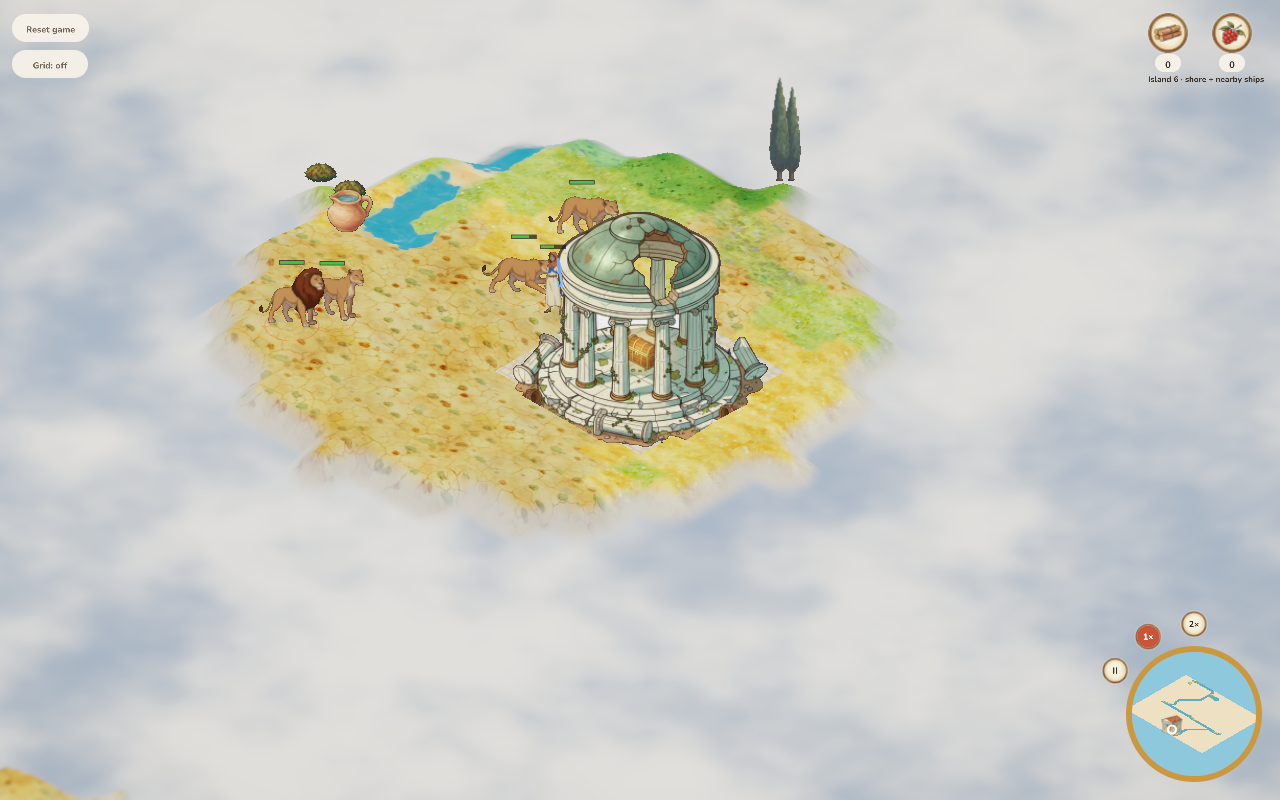
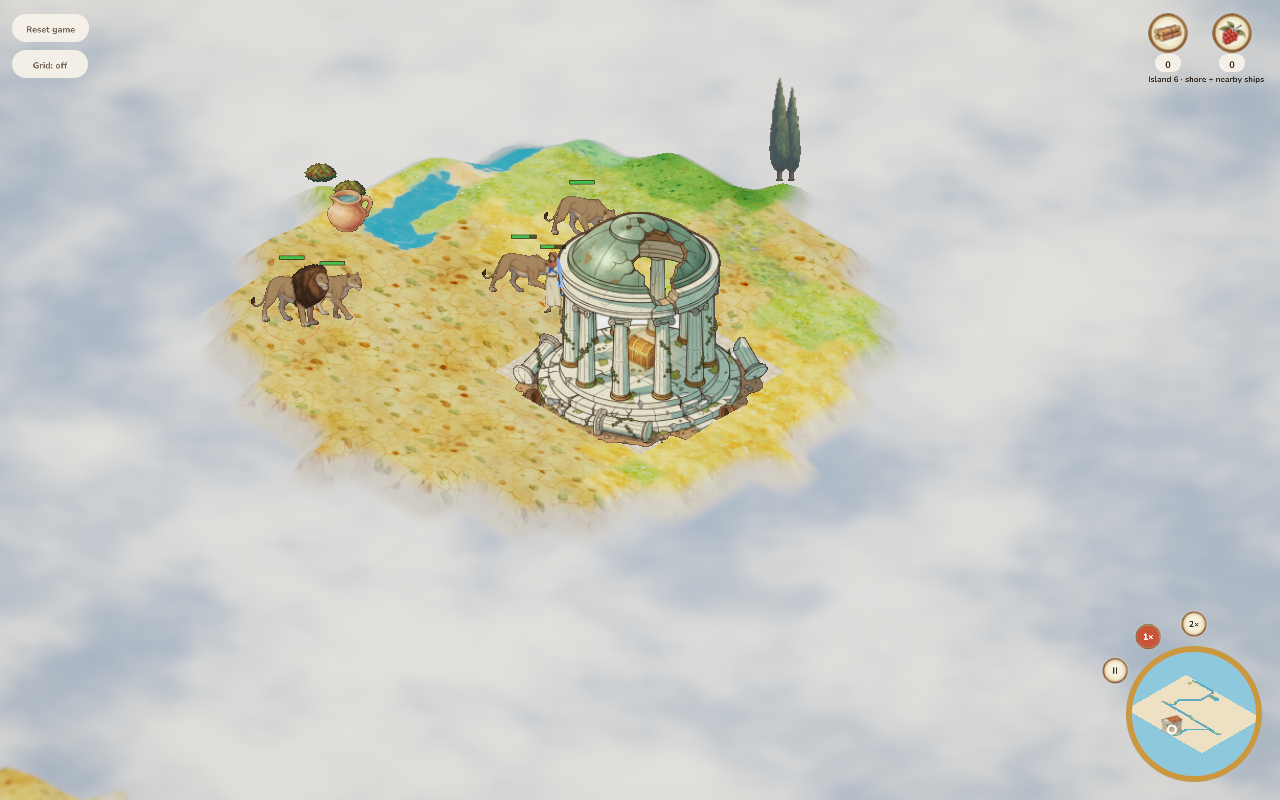
Regenerate lions to match the wildlife colour and shading
Jakob found the first lion drafts' colour and shading inconsistent with the
game. Measured, the lioness was flat and airbrushed (value 0.54-0.77) beside
the wolf's and bear's painted light and shadow sides. Both forms are now
generated fresh from the shipped wolf/bear sheet, with the lioness as the
lion's pride reference: muted coats, the wolf's two-tone cream underside,
one colour across every frame, and a crouched windup.

The packer splits poses by shape so a tail crossing a cell edge stays with
its body. The lion is drawn about a fifth taller than the lioness. The
rejected passes and the lesson are recorded in the asset guide and provenance.

Claude-Session: https://claude.ai/code/session_01Tn1BkVmeuuLTe7qVsn2x5n

Changed region(s): [[0.1875, 0.3125, 0.2812, 0.4062], [0.4062, 0.25, 0.5, 0.3125], [0.375, 0.3125, 0.4375, 0.375]]

diff --git a/scripts/pack_wildlife.py b/scripts/pack_wildlife.py
@@ -3,13 +3,16 @@
 from pathlib import Path
 import json
 
+import numpy as np
 from PIL import Image
+from scipy import ndimage
 
 ROOT = Path(__file__).resolve().parents[1]
 SOURCE = ROOT / "assets/sprites/wildlife_sources/npc-style-refined.png"
 ATTACK_SOURCE = SOURCE.with_name("npc-attack-refined.png")
 CELL = 627
 BASELINE = 590
+
 
 
 def main():
@@ -61,19 +64,31 @@ def main():
         assert bounds[3] + offset[1] < CELL
         atlas.alpha_composite(frame, (col * CELL + offset[0], 2 * CELL + offset[1]))
         frames[f"boar_{pose}"] = [col * CELL, 2 * CELL, CELL, CELL]
-    # Lions: 512px source cells placed unenlarged; the lowest (planted) paws of
-    # every pose sit on the shared baseline so attacks stay grounded.
+    # Lions: 512px source quadrants placed unenlarged. A pose is every opaque shape
+    # whose center lies in its quadrant, so a tail crossing the quadrant edge
+    # stays with its body. The lowest (planted) paws sit on the shared baseline.
     for row, name in [(3, "lioness"), (4, "lion")]:
-        sheet = Image.open(ROOT / f"assets/sprites/lion_sources/{name}_cutout_0.png").convert("RGBA")
+        sheet = Image.open(ROOT / f"assets/sprites/lion_sources/{name}_family_cutout.png").convert("RGBA")
         assert sheet.size == (1024, 1024)
+        alpha = np.asarray(sheet.getchannel("A")) > 128
+        labels, count = ndimage.label(alpha)
+        centers = ndimage.center_of_mass(alpha, labels, range(1, count + 1))
+        pixels = np.asarray(sheet)
         for col, pose in enumerate(["idle", "walk", "attack_windup", "attack_strike"]):
             x, y = col % 2 * 512, col // 2 * 512
-            frame = sheet.crop((x, y, x + 512, y + 512))
+            shapes = [i + 1 for i, (cy, cx) in enumerate(centers)
+                      if x <= cx < x + 512 and y <= cy < y + 512]
+            # Keep soft edge pixels of the pose's own shapes only.
+            mask = ndimage.binary_dilation(np.isin(labels, shapes), iterations=3)
+            frame = Image.fromarray(np.where(mask[..., None], pixels, 0).astype(np.uint8), "RGBA")
             bounds = frame.getchannel("A").point(lambda a: 255 if a > 128 else 0).getbbox()
             assert bounds is not None
-            offset = ((CELL - 512) // 2, BASELINE - bounds[3])
-            assert 0 <= bounds[1] + offset[1] and bounds[2] + offset[0] < CELL
-            atlas.alpha_composite(frame, (col * CELL + offset[0], row * CELL + offset[1]))
+            offset = ((CELL - 512) // 2 - x, BASELINE - bounds[3])
+            assert 0 <= bounds[0] + offset[0] and bounds[2] + offset[0] < CELL
+            assert 0 <= bounds[1] + offset[1]
+            cell = Image.new("RGBA", (CELL, CELL))
+            cell.alpha_composite(frame.crop(bounds), (bounds[0] + offset[0], bounds[1] + offset[1]))
+            atlas.alpha_composite(cell, (col * CELL, row * CELL))
             frames[f"{name}_{pose}"] = [col * CELL, row * CELL, CELL, CELL]
     atlas.save(ROOT / "assets/sprites/wildlife.png")
     (ROOT / "assets/sprites/wildlife.json").write_text(

diff --git a/crates/client/src/view/wildlife.rs b/crates/client/src/view/wildlife.rs
@@ -21,8 +21,8 @@ pub(super) fn draw(
             aoa_game::AnimalKind::Bear => (1, 1.3, 0.35),
             aoa_game::AnimalKind::Boar => (2, 0.95, 0.25),
             // Lion cells come from smaller 512px sources, hence the larger quad.
-            aoa_game::AnimalKind::Lioness => (3, 1.3, 0.3),
-            aoa_game::AnimalKind::Lion => (4, 1.3, 0.35),
+            aoa_game::AnimalKind::Lioness => (3, 1.25, 0.3),
+            aoa_game::AnimalKind::Lion => (4, 1.45, 0.35),
         };
         let moving = animal.step.is_some();
         let stride = moving && (time * 5.0) as u32 % 2 == 1;

diff --git a/crates/client/src/view/health.rs b/crates/client/src/view/health.rs
@@ -37,8 +37,8 @@ impl WorldView {
                 aoa_game::AnimalKind::Wolf => 0.75,
                 aoa_game::AnimalKind::Bear => 0.8,
                 aoa_game::AnimalKind::Boar => 0.55,
-                aoa_game::AnimalKind::Lioness => 0.55,
-                aoa_game::AnimalKind::Lion => 0.62,
+                aoa_game::AnimalKind::Lioness => 0.57,
+                aoa_game::AnimalKind::Lion => 0.6,
             };
             let height = sprite.size[1] * (top - sprite.pivot[1]);
             if let Some(top) = rig.screen_offset(Vec3::from(sprite.anchor), up * height) {

diff --git a/docs/verification/lions/README.md b/docs/verification/lions/README.md
@@ -1,28 +1,32 @@
-# Lion prides — review evidence (2026-10-09)
+# Lion prides — review evidence (2026-10-09, art updated 2026-10-10)
 
-Draft-1 art and behavior for the first monster class. Captures come from the
+Art and behavior for the first monster class. Captures come from the
 current web build rendering a temple-island snapshot from `tests/full_run.rs`
 (seed 7) with a pride injected beside the landed villager: the leader idle,
 one lioness striking (the villager's bar is at 55%), one winding up, one walking.
 The injected scene is for rendering only and was not validated by the simulation.
 
 - `style-compare.png`: shipped wolf, bear and boar beside the lioness and lion
-  (idle and strike), at one common scale.
+  (idle, idle, strike, strike). Not to game scale.
+- `before-after.png`: rejected draft 1 (top) against the integrated family pass.
 - `poses.png`: all four poses of each, on flat grass.
 - `desktop.png`, `desktop-zoom.png`: 1280×800, DPR 1.
 - `phone.png`: 390×844, DPR 2.
 
 ## Style acceptance (pending Jakob)
 
-Matches: fine warm brown contours, two-tone cel shading, no fur hatching,
-consistent identity across poses, grounded paws, same three-quarter camera.
+Draft 1 was rejected on 2026-10-10: colour and shading were not consistent with
+the game. The integrated sheets were generated fresh from the shipped wolf/bear
+sheet ([lesson](../../knowledge/asset-pipeline.md#new-species-from-the-family-sheet-2026-10-10)).
 
-Differences, still open: the lions are brighter and flatter than the wolf and
-bear, with fewer silhouette fur tufts. The windup poses differ only slightly from
-idle. Sources are 512px cells (the other animals use 627px), so at maximum zoom
-they are a little softer. No OpenAI refinement pass has been made yet. If Jakob
-wants a closer match, the next step is an image_gen refinement against the
-wolf/bear sheet.
+Matches now: muted earthy coat (lioness saturation 0.42 and lion 0.45, between the
+boar's 0.36 and the bear's 0.51), the wolf's two-tone cream underside, painted
+shadow on far legs and belly, dark grey claws, brush-stroke mane strands, thin
+warm brown contours, one colour across all four cells of each sheet, a clearly
+crouched windup and an open-jaw strike.
+
+Still open: fur texture is softer than the wolf's strokes at close zoom; sources
+are 512px cells (other animals 627px); no OpenAI image_gen cleanup pass yet.
 
 ## Behavior checks run
 

diff --git a/docs/knowledge/asset-pipeline.md b/docs/knowledge/asset-pipeline.md
@@ -191,6 +191,21 @@ Road materials occupy layers 11/12 of the existing texture array and use its
 mirrored, mip-clamped sampling; retain full-resolution originals and record exact
 prompts/reference hashes before integration.
 
+## New species from the family sheet (2026-10-10)
+
+Jakob rejected the first lion drafts: colour and shading did not match the game.
+Measured on opaque pixels, the lioness coat sat at value 0.54–0.77 (flat,
+airbrushed), while the wolf spans 0.44–0.87 and the bear 0.35–0.64 with painted
+light and shadow sides. Editing the off-style sheet with the wolf attached barely
+changed its rendering, and repaints drifted in colour between top and bottom
+cells. Generating fresh from the square shipped sheet
+`wildlife_sources/npc-style-refined.png` alone, then using the chosen new animal as
+the identity reference for its sibling form, matched palette and shading with one
+colour across all cells. Keep references square: a 2:1 reference produced
+1472×704 sheets with cells below the 512px minimum. Check per-cell saturation and
+value percentiles before packing. Provenance:
+[lion sources](../../assets/sprites/lion_sources/provenance.json).
+
 ## Wildlife style correction (2026-10-05)
 
 Jakob found the shipped wolves and bears too generic and not fully aligned with the game. Refine against `assets/reference/diorama_primary.webp`: simplify dense fur into painted masses, soften dark contours and contrast, and preserve readable species silhouettes, existing idle/walk identities, camera and ground anchors. The current atlas is the edit target, not an approved style reference. Validate against the world reference and actual gameplay before release.

diff --git a/assets/sprites/lion_sources/README.md b/assets/sprites/lion_sources/README.md
@@ -2,10 +2,15 @@
 
 Lioness (pride member) and maned lion (pride leader), four poses each: idle,
 walk, attack windup, attack strike, facing right and mirrored in the renderer.
-Generated 2026-10-09 with FAL `fal-ai/nano-banana/edit` against the approved
-boar sheet, the NPC-matched wolf/bear attack sheet and the guard, then cut out
-with `fal-ai/birefnet/v2`. Prompts, references, request IDs and rejected drafts:
-`provenance.json`. Run `python3 scripts/pack_wildlife.py` to repack.
 
-These are draft-1 sources (512px cells, no OpenAI refinement yet). See the
-[lion review](../../../docs/verification/lions/README.md) for the style gate.
+The integrated sheets (`*_family_render_*`, cut out as `*_family_cutout.png`) were
+generated 2026-10-10 with FAL `fal-ai/nano-banana/edit` from the shipped square
+wolf/bear sheet alone, with the selected lioness as the lion's pride reference,
+then cut out with `fal-ai/birefnet/v2`. Jakob rejected the earlier drafts
+(`lion*_render_*`, `lion*_refined_render_*`) because their colour and shading
+did not match the game. Editing an off-style sheet kept its airbrushed fills, so
+generate new species fresh from the approved family sheet.
+
+Prompts, references, request IDs, measurements and rejected passes are in
+`provenance.json`. Run `python3 scripts/pack_wildlife.py` to repack. No OpenAI
+image_gen refinement pass yet. [Review](../../../docs/verification/lions/README.md).

diff --git a/docs/knowledge/wildlife.md b/docs/knowledge/wildlife.md
@@ -51,8 +51,12 @@ saves load; only islands discovered after the update gain prides.
 
 Art: `assets/sprites/lion_sources/` (prompts, renders, cutouts, provenance) packed
 as atlas rows 3–4 by `scripts/pack_wildlife.py`. The sources are 512px cells,
-placed unenlarged in 627px frames and drawn with a larger quad. Draft status and
-style review: [lion review](../verification/lions/README.md).
+placed unenlarged in 627px frames and drawn with a larger quad (lioness 1.25,
+lion 1.45, so the leader stands about a fifth taller). On 2026-10-10 Jakob found
+the first drafts' colour and shading inconsistent with the game; the integrated
+sheets were regenerated from the shipped wolf/bear sheet alone
+([asset lesson](asset-pipeline.md#new-species-from-the-family-sheet-2026-10-10)).
+Style review: [lion review](../verification/lions/README.md).
 
 ## Implemented rules
 

diff --git a/OPEN_WORK.md b/OPEN_WORK.md
@@ -19,8 +19,9 @@ Finished work lives in merged PRs, `README.md` and the
 - The run is still far too easy: a short walk from the landing to the temple, and
   wildlife strength does not yet scale with distance.
 - Lions are in review on `claude/laughing-goodall-10lotl`: one pride (maned lion
-  plus 2–3 lionesses) per later island that hunts together. Art is draft 1 and
-  waits on Jakob's style call ([evidence](docs/verification/lions/README.md)).
+  plus 2–3 lionesses) per later island that hunts together. Art was regenerated
+  from the wolf/bear sheet after Jakob's 2026-10-10 colour/shading feedback and
+  waits on his style call ([evidence](docs/verification/lions/README.md)).
 
 ## Next steps to finish the capture-the-flag loop
 
